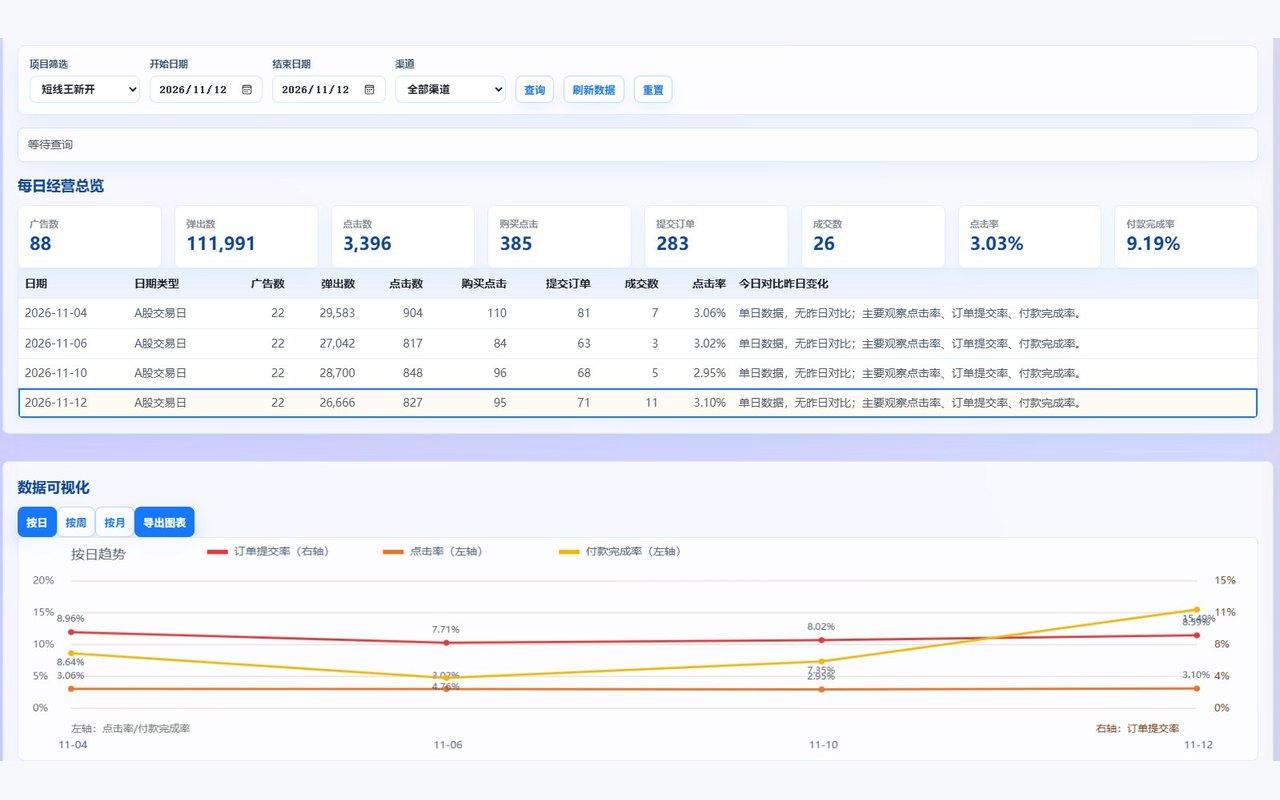
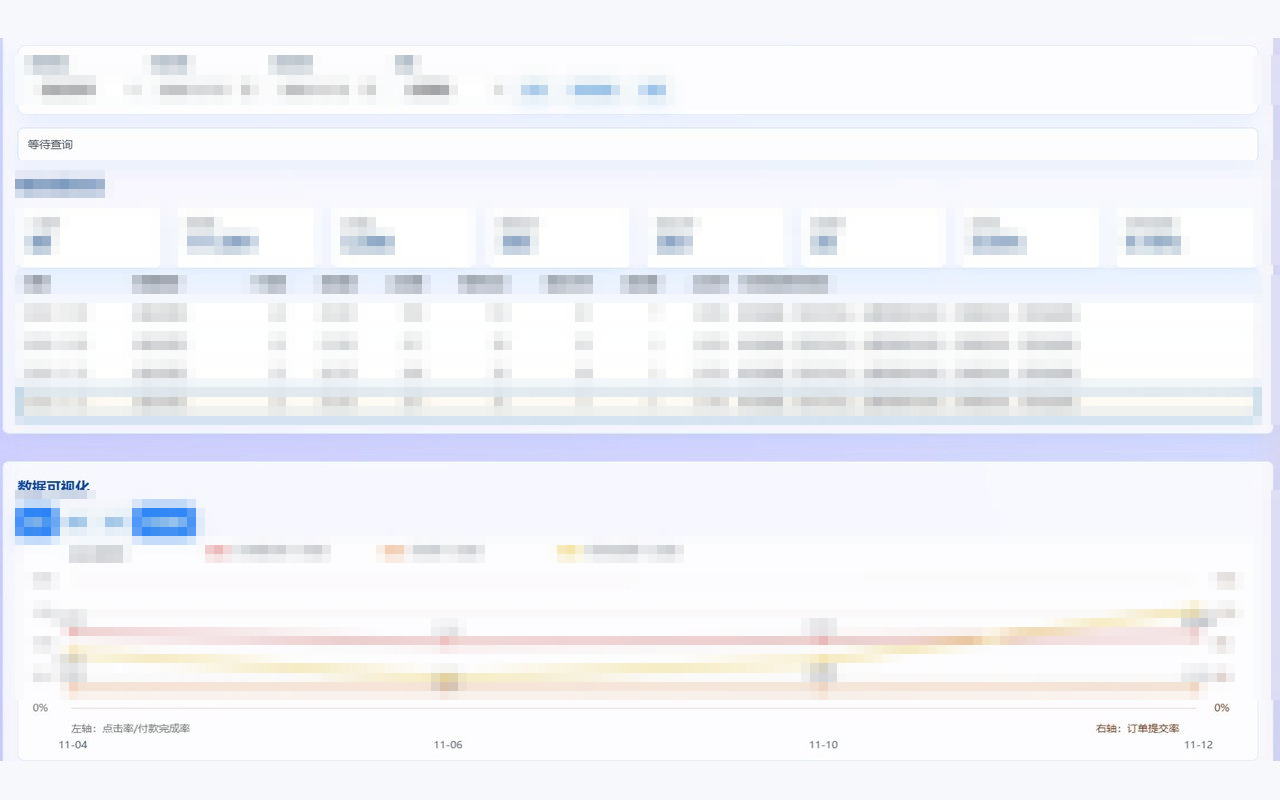
fix: 作品区截图打码遮盖真实数据；演示入口为两站点追加脱敏参数

diff --git a/demo.html b/demo.html
@@ -158,7 +158,17 @@ body{font-family:"PingFang SC","Microsoft YaHei",system-ui,-apple-system,"Segoe 
   fr.addEventListener('load', protect);
   setInterval(protect, 1500);
 
-  fr.src = decode(m.k);
+  /* 周数据看板 / 运营中台：演示入口追加脱敏参数，站点据此隐藏真实数据与笔记。
+     日常直接访问原站（不带此参数）时不触发，不影响本人使用。 */
+  function withDemo(u){
+    var hash = '', main = u, hi = u.indexOf('#');
+    if (hi >= 0){ hash = u.slice(hi); main = u.slice(0, hi); }
+    var sep = main.indexOf('?') >= 0 ? '&' : '?';
+    return main + sep + 'demo=1' + hash;
+  }
+  var target = decode(m.k);
+  if (m.k === 'wk' || m.k === 'ops') target = withDemo(target);
+  fr.src = target;
 })();
 </script>
 </body>
